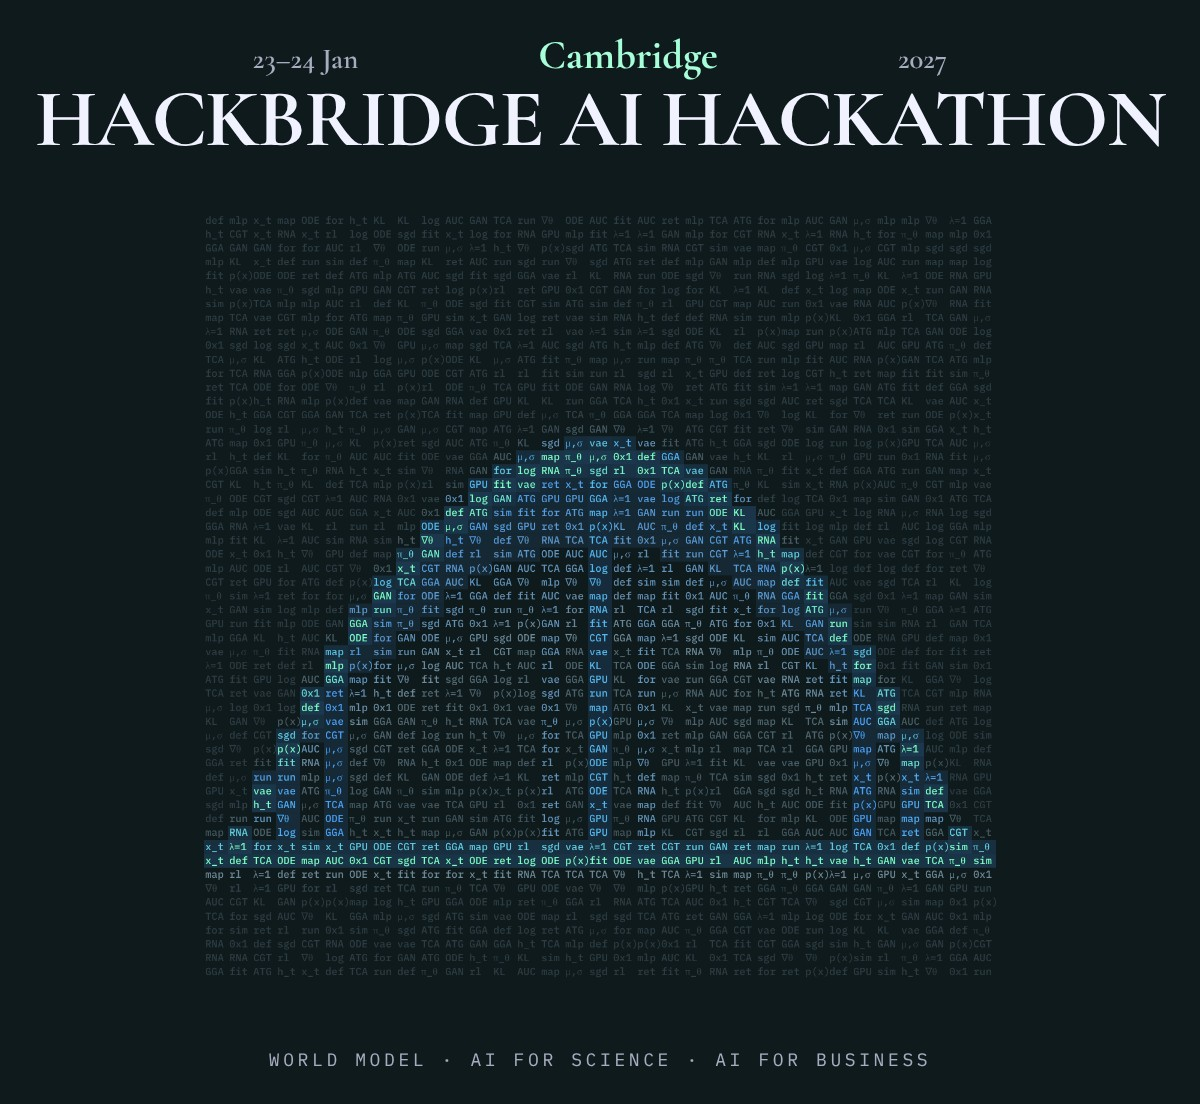
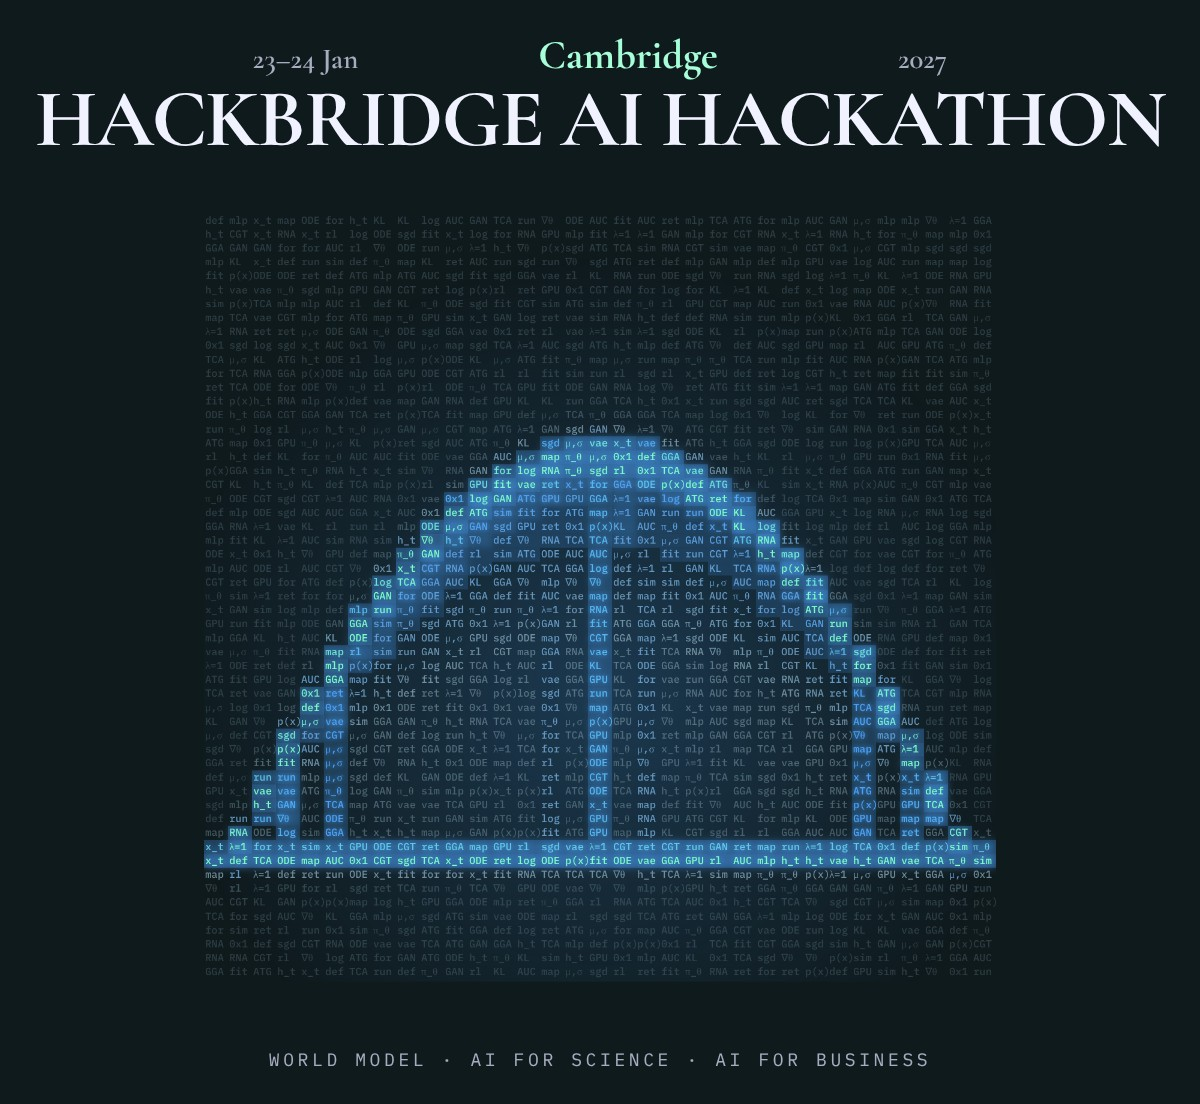
Brighter glow on teal/mint hackathon cover (preview)
Claude-Session: https://claude.ai/code/session_01N1yEK66b3WeEW2touuHySQ

Changed region(s): [[0.1542, 0.3696, 0.8325, 0.8315]]

diff --git a/index.html b/index.html
@@ -342,7 +342,7 @@ footer a:not(.logo){color:var(--muted)}footer a:not(.logo):hover{color:var(--fg)
   <section id="hackathon" class="hk-sec" aria-label="Hackbridge × neXus AI Hackathon 2027">
     <div class="wrap hk-grid">
       <a class="ev v1" href="https://luma.com/nywthv75" target="_blank" rel="noopener" aria-label="Hackbridge × neXus AI Hackathon 2027 on Luma">
-        <div class="ev-img"><img src="img/hackathon-2027-cover-dark.jpg?v=mint" alt="Hackbridge AI Hackathon, 23–24 January 2027, Cambridge" width="1200" height="1104"></div>
+        <div class="ev-img"><img src="img/hackathon-2027-cover-dark.jpg?v=mint-bright" alt="Hackbridge AI Hackathon, 23–24 January 2027, Cambridge" width="1200" height="1104"></div>
       </a>
       <div class="hk-side">
         <img class="hk-dino" src="img/nexus-dino.png" alt="" width="212" height="200">
